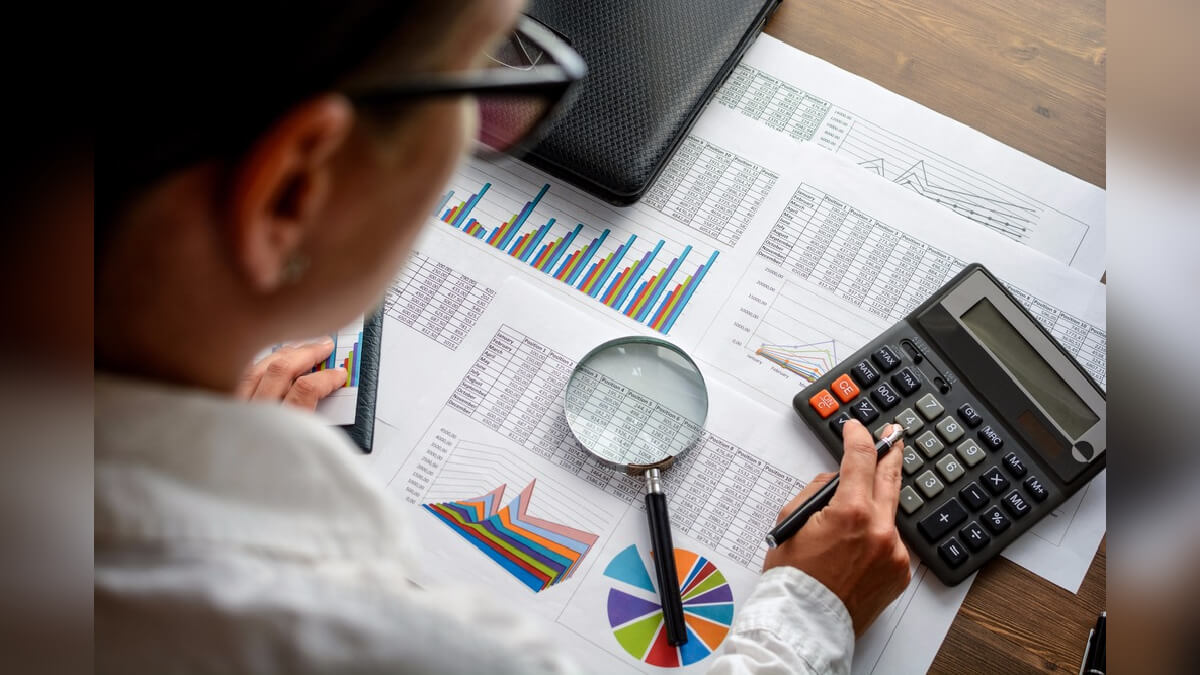
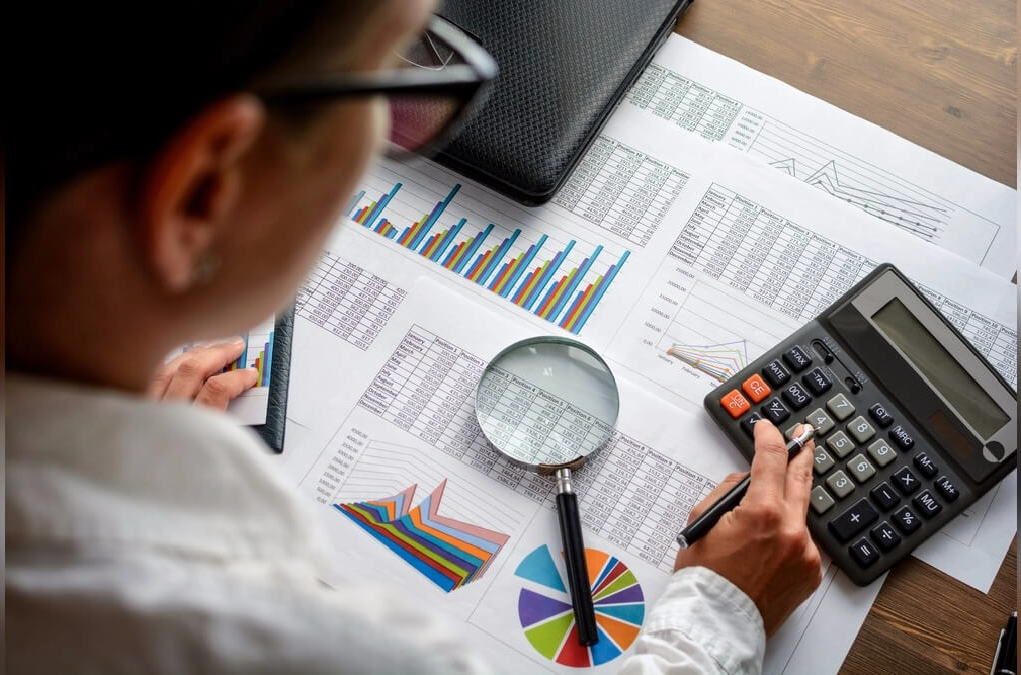
update images beneficios

diff --git a/index.html b/index.html
@@ -174,7 +174,7 @@
                             <div class="beneficios-content">
                                 <div class="beneficio">
                                     <div class="beneficio-img">
-                                        <img src="assets/img/beneficios/tasa-interes.png" alt=" ">
+                                        <img src="assets/img/beneficios/tasa-interes.png" alt=" " srcset="https://async-global.github.io/Prestamos-Peru/assets/img/beneficios/tasa-interes-300.png 300w">
 
                                         <div class="beneficio-titulo">
                                             <h1 class=" text-center ">TASA DE INTERÉS BAJA </h1>
@@ -189,7 +189,7 @@
                                 <div class="beneficio">
 
                                     <div class="beneficio-img">
-                                        <img src="assets/img/beneficios/entrega-dinero.jpg" alt=" ">
+                                        <img src="assets/img/beneficios/entrega-dinero.jpg" alt=" " srcset="https://async-global.github.io/Prestamos-Peru/assets/img/beneficios/entrega-dinero-300.jpg 300w">
 
                                         <div class="beneficio-titulo">
                                             <h1 class=" text-center">ENTREGA DE DINERO AL INSTANTE</h1>
@@ -205,7 +205,7 @@
                                 </div>
                                 <div class="beneficio">
                                     <div class="beneficio-img">
-                                        <img src="assets/img/beneficios/cuotas-elegibles.jpg" alt=" ">
+                                        <img src="assets/img/beneficios/cuotas-elegibles.jpg" alt=" " srcset="https://async-global.github.io/Prestamos-Peru/assets/img/beneficios/cuotas-elegibles-300.jpg 300w">
 
                                         <div class="beneficio-titulo">
                                             <h1 class=" text-center">CUOTAS DE PAGO ELEGIBLES</h1>
@@ -220,7 +220,7 @@
                                 <div class="beneficio">
 
                                     <div class="beneficio-img">
-                                        <img src="assets/img/beneficios/adelantar-cuotas.jpg" alt=" ">
+                                        <img src="assets/img/beneficios/adelantar-cuotas.jpg" alt=" " srcset="https://async-global.github.io/Prestamos-Peru/assets/img/beneficios/adelantar-cuotas-300.jpg 300w">
 
                                         <div class="beneficio-titulo ">
                                             <h1 class=" text-center ">SISTEMA REVOLVENTE DE ADELANTO DE CUOTAS SIN INTERES</h1>
@@ -235,7 +235,7 @@
                                 <div class="beneficio">
 
                                     <div class="beneficio-img">
-                                        <img src="assets/img/beneficios/operacion-confiable.jpg" alt=" ">
+                                        <img src="assets/img/beneficios/operacion-confiable.jpg" alt=" " srcset="https://async-global.github.io/Prestamos-Peru/assets/img/beneficios/operacion-confiable-300.jpg 300w">
 
                                         <div class="beneficio-titulo">
                                             <h1 class=" text-center ">OPERACIONES CLARAS Y CONFIABLES</h1>
@@ -249,7 +249,7 @@
                                 </div>
                                 <div class="beneficio">
                                     <div class="beneficio-img">
-                                        <img src="assets/img/beneficios/sin-comisiones.jpg" alt=" ">
+                                        <img src="assets/img/beneficios/sin-comisiones.jpg" alt=" " srcset="https://async-global.github.io/Prestamos-Peru/assets/img/beneficios/sin-comisiones-300.jpg 300w">
 
                                         <div class="beneficio-titulo ">
                                             <h1 class=" text-center ">SIN COMISIONES NI SEGURO DE DESGRAVAMEN</h1>
